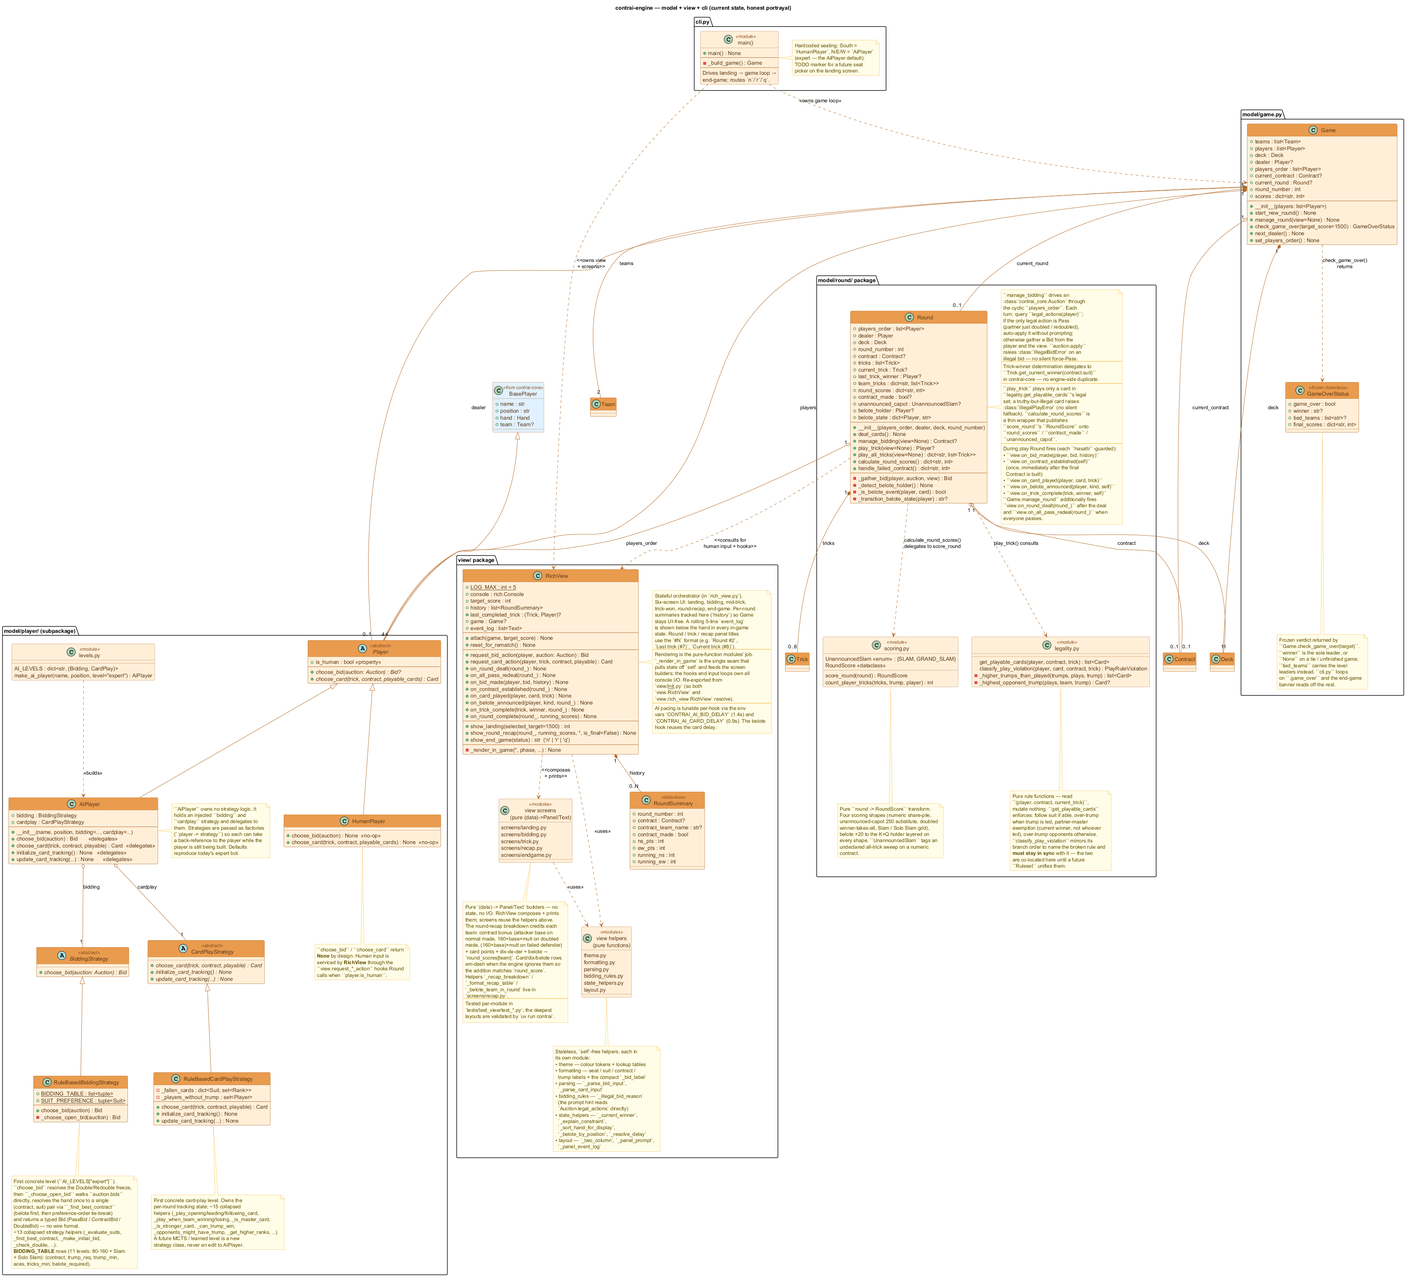
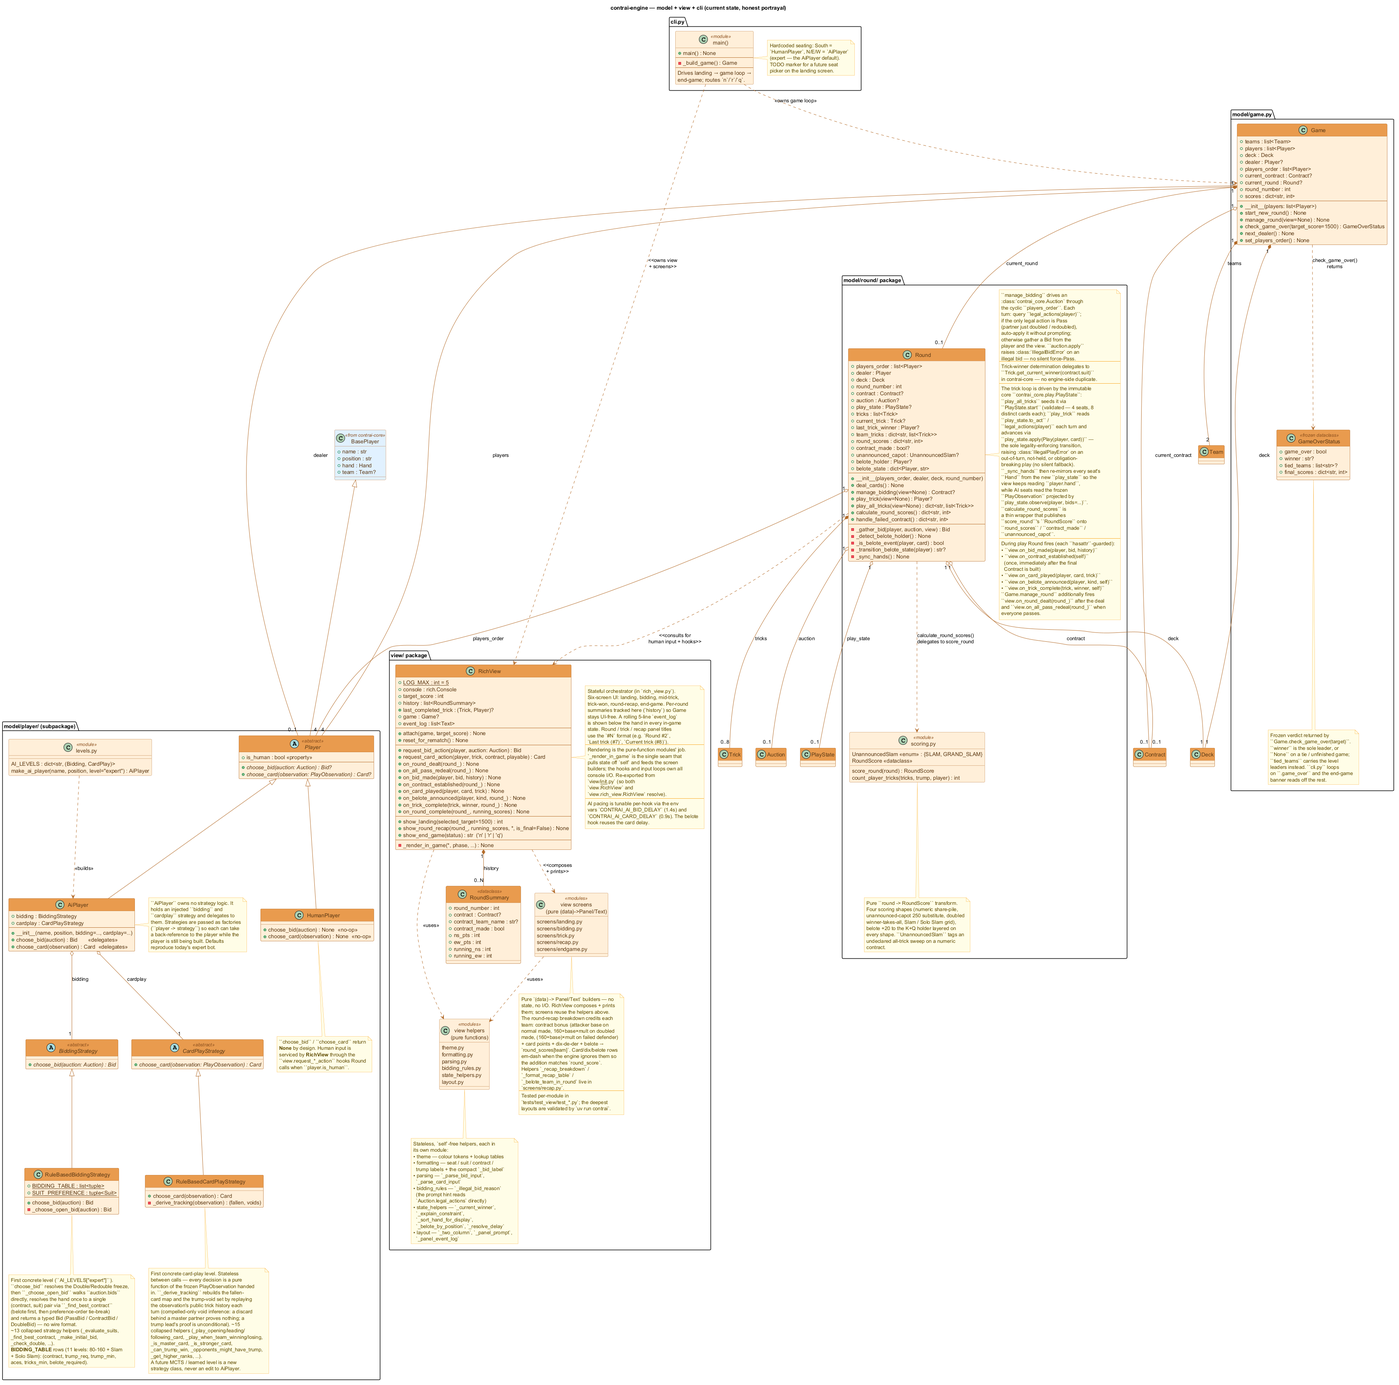
docs(engine): update the trick-flow docs for the PlayState loop

diff --git a/docs/engine/index.md b/docs/engine/index.md
@@ -14,10 +14,9 @@ Source at `packages/contrai-engine/src/contrai_engine/`:
     - `ai.py` — `AiPlayer`, which injects a bidding and a card-play strategy and delegates to them
     - `levels.py` — the `AI_LEVELS` registry + `make_ai_player()` factory for difficulty selection
   - `game.py` — `Game` (fires `view.on_round_dealt(...)` after the deal and `view.on_all_pass_redeal(...)` when nobody contracts)
-  - `round/` — the round subpackage (the lifecycle orchestrator plus the two near-pure transformations it calls); `round/__init__.py` re-exports `Round` / `UnannouncedSlam` so external imports (`from contrai_engine.model.round import …`) are unchanged:
-    - `round.py` — `Round`, the lifecycle orchestrator: deal → `manage_bidding` → `play_trick` / `play_all_tricks` → the thin `calculate_round_scores` wrapper, plus the inline belote/rebelote helpers. Publishes `view.on_bid_made(...)`, `view.on_contract_established(...)`, `view.on_card_played(...)`, `view.on_trick_complete(...)`, and `view.on_belote_announced(...)` so the view can pace and narrate AI turns. `deal_cards` also resets each AI seat's card tracking at every deal, and `play_trick` fans each landing card out to all AI trackers (both hasattr-gated — human seats have no tracker)
+  - `round/` — the round subpackage (the lifecycle orchestrator plus the pure scoring transformation it calls); `round/__init__.py` re-exports `Round` / `UnannouncedSlam` so external imports (`from contrai_engine.model.round import …`) are unchanged:
+    - `round.py` — `Round`, the lifecycle orchestrator: deal → `manage_bidding` → `play_trick` / `play_all_tricks` → the thin `calculate_round_scores` wrapper, plus the inline belote/rebelote helpers. The trick loop is driven by the immutable core `contrai_core.play.PlayState` — seeded at the start of play by `play_all_tricks` (or lazily by `play_trick` when driven directly) — which owns whose turn it is, the legal cards, and each seat's remaining hand; `Round` re-mirrors it after each play — `_sync_hands` re-extends every `player.hand`, and the same play is mirrored onto `current_trick` via `add_play` — so the view keeps reading the classic engine objects, while AI seats instead read the frozen `PlayObservation` projected from that same state. Publishes `view.on_bid_made(...)`, `view.on_contract_established(...)`, `view.on_card_played(...)`, `view.on_trick_complete(...)`, and `view.on_belote_announced(...)` so the view can pace and narrate AI turns
     - `scoring.py` — the pure `score_round(round) -> RoundScore` transformation (the numeric / unannounced-capot / doubled / Slam scoring shapes, belote +20), plus `count_player_tricks` and the `UnannouncedSlam` outcome tag
-    - `legality.py` — the pure card-legality oracle `get_playable_cards(player, contract, current_trick)` and its companion `classify_play_violation(...)`, co-located because their branch orders must stay in sync (this realises the *co-location* half of the deferred `Ruleset`)
 - `view/` — the terminal UI, split into focused modules (see [CLI](#cli) below):
   - `rich_view.py` — `RichView`, the stateful orchestrator: console + per-game state, the engine hooks (`request_*_action`, `on_*`, `show_*`), the input loops, and `_render_in_game` (the single seam that pulls state off `self` and feeds the pure builders). `RoundSummary` lives here too. Re-exported from `view/__init__.py`, so both `from contrai_engine.view.rich_view import RichView` (used by `cli.py` / `model/game.py`) and `from contrai_engine.view import RichView` work.
   - `theme.py` — design tokens (colour palette) and lookup tables (target-score options, position / team labels, bid aliases, valid contract values)
@@ -41,9 +40,9 @@ Everything else (`Card`, `Deck`, `Hand`, `Suit`, `Rank`, `Bid`, `Contract`, `Tri
 
 ## AI players
 
-`AiPlayer` owns no strategic logic of its own. It holds two strategy objects behind the abstract `BiddingStrategy` / `CardPlayStrategy` interfaces (`strategy.py`) and routes `choose_bid` / `choose_card` / the card-tracking hooks to them. Strategies are supplied at construction as **factories** (`player -> strategy`, i.e. the strategy class itself), resolving the chicken-and-egg of a strategy that needs a back-reference to the player while the player is still being built; the `_PlayerStrategy` mix-in then gives each strategy live read access to the player's `hand` / `team` / `position`. The defaults reproduce today's bot, so `AiPlayer("Bot", "South")` is unchanged.
+`AiPlayer` owns no strategic logic of its own. It holds two strategy objects behind the abstract `BiddingStrategy` / `CardPlayStrategy` interfaces (`strategy.py`) and routes `choose_bid` / `choose_card` to them. Strategies are supplied at construction as **factories** (`player -> strategy`, i.e. the strategy class itself), resolving the chicken-and-egg of a strategy that needs a back-reference to the player while the player is still being built; the `_PlayerStrategy` mix-in then gives each strategy live read access to the player's `hand` / `team` / `position`. The defaults reproduce today's bot, so `AiPlayer("Bot", "South")` is unchanged.
 
-The first concrete level is the rule-based pair (`rule_based.py`): `RuleBasedBiddingStrategy` implements the expert bidding table (80–160 plus Slam and Solo Slam) and `RuleBasedCardPlayStrategy` the card-play strategy from the functional specs (`SF-09`, `SF-10`). Future AI levels (MCTS, learned policies — AI roadmap §6) are new strategy classes, never edits to `AiPlayer`; a thin `AI_LEVELS` registry + `make_ai_player(name, position, level="expert")` factory (`levels.py`) gives ergonomic difficulty selection on top, while the raw `AiPlayer(..., bidding=…, cardplay=…)` form stays available for mix-and-match (e.g. rule-based bidding + a learned card-play). The strategy object is also the natural home for a future explainability rule-trace (§6.1). Card tracking is engine-driven: the counters are initialised at construction, reset by `Round.deal_cards` at every deal, and fed by `Round.play_trick` on every landing card — with a compelled-only trump-void inference (a seat discarding behind its master partner is *not* marked void, since that discard is voluntary; on a trump lead the proof is unconditional, because holding trump forces playing it). `choose_card` consumes the real `Contract` object from `Round` rather than the legacy `(player, value, suit)` tuple some older tests once passed.
+The first concrete level is the rule-based pair (`rule_based.py`): `RuleBasedBiddingStrategy` implements the expert bidding table (80–160 plus Slam and Solo Slam) and `RuleBasedCardPlayStrategy` the card-play strategy from the functional specs (`SF-09`, `SF-10`). Future AI levels (MCTS, learned policies — AI roadmap §6) are new strategy classes, never edits to `AiPlayer`; a thin `AI_LEVELS` registry + `make_ai_player(name, position, level="expert")` factory (`levels.py`) gives ergonomic difficulty selection on top, while the raw `AiPlayer(..., bidding=…, cardplay=…)` form stays available for mix-and-match (e.g. rule-based bidding + a learned card-play). The strategy object is also the natural home for a future explainability rule-trace (§6.1). `choose_card` takes a single frozen `contrai_core.PlayObservation` — the seat's own hand, the public trick history, the contract/auction, and its legal cards right now — projected by `PlayState.observe()`. Because that observation is the *only* input a card-play strategy ever receives, a strategy can never read another seat's hand — the cheat-proofing is structural, not a rule the strategy has to honour. `RuleBasedCardPlayStrategy` is stateless between calls: it derives whatever card tracking it needs (which cards have fallen, which seats are known void in trump) by replaying the observation's public trick history fresh on every turn (`_derive_tracking`), rather than carrying counters across calls or rounds. The trump-void inference stays compelled-only — a seat discarding behind its master partner is *not* marked void, since that discard is voluntary; on a trump lead the proof is unconditional, because holding trump forces playing it.
 
 When the AI's team is currently winning the trick (`_play_when_team_winning`) and the AI cannot follow the led suit, the rule is *don't waste trumps*: prefer a non-trump discard over playing a trump card, even though a trump would add more points to the pile. Within the non-trump discard pool the AI prefers non-master cards (preserving cards that can still win their suit later) and picks the highest-points to maximise this trick's value. Only when the hand has nothing left but trumps does the AI play one — and it picks the lowest trump in that case, so the Jack or 9 of trump aren't dumped onto an already-won trick.
 
@@ -72,7 +71,7 @@ Per-round summaries shown on the end-game scoreboard are tracked **view-side** (
 CONTRAI_AI_BID_DELAY=0.5  CONTRAI_AI_CARD_DELAY=0.3  uv run contrai
 ```
 
-**Play legality at the play boundary.** `Round.play_trick` plays a card only if it is in the `legality.get_playable_cards` legal set; a truthy-but-illegal card now raises `IllegalPlayError` (carrying the offending card, a `PlayRuleViolation` reason, and the legal alternatives) instead of being **silently corrected** to a legal fallback. The reason is computed by `legality.classify_play_violation`, which mirrors `get_playable_cards`'s branch order and must stay in sync with it until the deferred `Ruleset` unifies the two — co-locating the pair in `model/round/legality.py` is the first step toward that unification. Both `AiPlayer.choose_card` and `RichView.request_card_action` are contracted to only ever return a card from `playable_cards`, so the raise is a safety net surfacing wiring bugs (cf. the `AiPlayer` cleanup in the open work) rather than a path hit in normal play — the headless 4-AI smoke run confirms it never fires.
+**Play legality at the play boundary.** Card-play legality now lives entirely in `contrai_core.play.PlayState`: `Round.play_trick` reads the active player and their legal cards off `play_state.to_act` / `play_state.legal_actions(player)`, then advances the state with `play_state.apply(Play(player, card))`. `apply` is the single legality-enforcing transition — it checks turn order, then hand membership, then the follow/trump obligations — and raises `IllegalPlayError` (carrying the offending card, a `PlayRuleViolation` reason, and the legal alternatives) on an out-of-turn, not-held, or obligation-breaking play, instead of being **silently corrected** to a legal fallback. Both `AiPlayer.choose_card` (fed the `PlayObservation` projected from that same state) and `RichView.request_card_action` are contracted to only ever return a card from the legal set, so the raise is a safety net surfacing wiring bugs (cf. the `AiPlayer` cleanup in the open work) rather than a path hit in normal play — the headless 4-AI smoke run confirms it never fires.
 
 **Bid legality at the input boundary.** `request_bid_action` parses raw input for *shape* (`_parse_bid_input`) and then validates it against `Auction.is_legal` before returning. An illegal-but-parseable bid — e.g. doubling your own partner's contract — re-prompts with a specific reason (`_illegal_bid_reason`) instead of escaping to `Auction.apply` and crashing the CLI. The model keeps its strict hard-raise contract; the human-input layer is where unvalidated input is filtered. The bid prompt hint is likewise adaptive, and reads straight off `Auction.legal_actions(player)`: `double` / `redouble` are only advertised when a `DoubleBid` / `RedoubleBid` is in the seat's legal set, and the worked contract example is the cheapest legal `ContractBid` value on offer (`100 H` once a `90` stands, not the bare `80` floor) — dropped past `180` where only Slam (a non-integer value) outranks the standing contract.
 
@@ -97,7 +96,7 @@ See the [Rich TUI design handoff](../../ContrAI%20CLI/design_handoff_contrai_tui
 ```plantuml format="svg" source="seq_round.puml"
 ```
 
-The end-to-end flow of `Game.manage_round`: setup (deal, AI card-tracking reset, dealer rotation, players_order, `view.on_round_dealt` notification) → bidding (delegated to `Round.manage_bidding`, which establishes the contract and snapshots the belote holder if any) → eight tricks (`Round.play_all_tricks`) → scoring (`calculate_round_scores`, with belote +20 and dix-de-der +10, applying the double / redouble multiplier). The failed-contract branch (everyone passed) records zero scores, redistributes cards, and fires `view.on_all_pass_redeal`. `manage_round` returns nothing — it mutates the `Game`/`Round` in place (`current_contract`, `scores`) and the caller reads the outcome off those. After each `manage_round`, `cli.py` calls `view.on_round_complete` and then `view.show_round_recap(round_, scores, is_final=…)` — shown for every round, including the one that just clinched the game (the prompt flips to "see the final score…" so the end-game banner is what follows).
+The end-to-end flow of `Game.manage_round`: setup (deal, dealer rotation, players_order, `view.on_round_dealt` notification) → bidding (delegated to `Round.manage_bidding`, which establishes the contract and snapshots the belote holder if any) → eight tricks (`Round.play_all_tricks`) → scoring (`calculate_round_scores`, with belote +20 and dix-de-der +10, applying the double / redouble multiplier). The failed-contract branch (everyone passed) records zero scores, redistributes cards, and fires `view.on_all_pass_redeal`. `manage_round` returns nothing — it mutates the `Game`/`Round` in place (`current_contract`, `scores`) and the caller reads the outcome off those. After each `manage_round`, `cli.py` calls `view.on_round_complete` and then `view.show_round_recap(round_, scores, is_final=…)` — shown for every round, including the one that just clinched the game (the prompt flips to "see the final score…" so the end-game banner is what follows).
 
 The two zoom diagrams below break out the dense parts.
 
@@ -113,7 +112,7 @@ The two zoom diagrams below break out the dense parts.
     ```plantuml format="svg" source="seq_trick.puml"
     ```
 
-    Leader determination → four players play in order → winner + bookkeeping → each landing card fans out to every AI seat's `update_card_tracking` (before the view hook, with the `partner_was_master` flag snapshotted pre-play so voluntary discards behind a master partner aren't marked as trump voids) → `view.on_card_played(player, card, trick)` after each landing card → optional `view.on_belote_announced(player, kind, round_)` when the trump K-or-Q is played by the holder → `view.on_trick_complete(trick, winner, round_)` callback (each hook is gated on `hasattr(view, …)`, so non-Rich callers stay unaffected). Two subtleties to know: `Trick()` is built bare (it stores no trump), so `Round.play_trick` passes `self.contract.suit` into `Trick.get_current_winner(trump_suit)` to pick the winner — there is no engine-side duplicate of that rule; and a truthy-but-illegal `choose_card` result raises `IllegalPlayError` (carrying the offending card, a `classify_play_violation` reason, and the legal alternatives) rather than being silently corrected — consistent with the play-legality boundary described above. Legality (`legality.get_playable_cards`) now correctly forces over-trump when trump is led and keys the partner exemption on the *current master* of the partial trick — see the legality note at the foot of the diagram.
+    Leader determination is implicit in `play_state.to_act` (trick 0 is led by `players_order[0]`; every later trick by the previous winner). For each of the four plays: `play_state.to_act` / `play_state.legal_actions(player)` supply the active player and legal cards → the human seat is asked via `view.request_card_action`, an AI seat via `choose_card(play_state.observe(player, bids=...))` (the frozen `PlayObservation` is the only thing the strategy ever sees), any other seat falls back to the first legal card → `play_state = play_state.apply(Play(player, card))` advances the authoritative state (raising `IllegalPlayError` on an out-of-turn, not-held, or obligation-breaking card — no silent correction) → `_sync_hands` re-mirrors every seat's `Hand` from the new state → the same play is mirrored onto `current_trick` via `add_play` → `view.on_card_played(player, card, trick)` → optional `view.on_belote_announced(player, kind, round_)` when the trump K-or-Q is played by the holder. Once all four plays land: `view.on_trick_complete(trick, winner, round_)` callback (each hook is gated on `hasattr(view, …)`, so non-Rich callers stay unaffected). Two subtleties to know: `Trick()` is built bare (it stores no trump), so `Round.play_trick` passes `self.contract.suit` into `Trick.get_current_winner(trump_suit)` to pick the winner — there is no engine-side duplicate of that rule; and `PlayState.legal_actions` (contrai-core) correctly forces over-trump when trump is led and keys the partner exemption on the *current master* of the partial trick — see the legality note at the foot of the diagram.
 
 ### Scoring
 
@@ -124,7 +123,7 @@ The two zoom diagrams below break out the dense parts.
 
 ## Open work
 
-- The round test suite mirrors the `model/round/` split into three files (sharing the `players` fixture in `tests/test_model/conftest.py`): `test_round_legality.py` covers the `legality.get_playable_cards` oracle and the `legality.classify_play_violation` reason classifier; `test_round_scoring.py` covers the `scoring.score_round` grid (numeric / unannounced-capot / doubled / Slam) plus a direct `RoundScore`/`score_round` purity check; and `test_round.py` keeps the orchestrator concerns — `play_trick`'s `IllegalPlayError` raise on an illegal card, the card-tracking wiring (the `play_trick` fan-out with the compelled-vs-voluntary void inference, and the `deal_cards` per-deal reset), the belote tracking helpers, and the auction-driven integration test that the human seat is never prompted when their partner has doubled. The lifecycle path (`manage_bidding` end-to-end / `play_all_tricks` / `calculate_round_scores`) is still un-tested past that single integration scenario — backfill needed.
+- The round test suite mirrors the `model/round/` split (sharing the `players` fixture in `tests/test_model/conftest.py`): `test_round_scoring.py` covers the `scoring.score_round` grid (numeric / unannounced-capot / doubled / Slam) plus a direct `RoundScore`/`score_round` purity check; `test_round.py` keeps the orchestrator concerns — `play_trick`'s `IllegalPlayError` raise on an illegal card (`TestPlayTrickRejectsIllegalCard`), the lazy `PlayState` seeding guard and the validated `play_all_tricks` seeding (`TestPlayStateSeeding`), `_sync_hands` mirroring and card-identity flow-through (`TestSyncHandsMirrorsPlayState`, `TestCardIdentityFlowsFromSeed`), the retained auction (`TestAuctionRetention`), the `PlayObservation` each AI seat is handed (`TestPlayTrickHandsObservation`), the belote tracking helpers, and the auction-driven integration test that the human seat is never prompted when their partner has doubled (`TestManageBiddingAutoPasses`); and `test_round_lifecycle.py` backfills the full end-to-end path — `deal_cards` → `manage_bidding` → `play_all_tricks` → `calculate_round_scores` — on a fully stacked deck with four `AiPlayer` seats and no view, pinning both a scoring invariant and a concrete regression split.
 - The screen `Panel`/`Table` *builders* (now pure functions under `view/screens/` and `view/layout.py`, no longer `RichView` methods) are lightly covered: title/text smoke tests for the round panel, bidding-history, event-log, recap tables, and the diamond's belote badge, in the matching `test_view/test_*.py` files. Layouts that aren't asserted on are still validated by `uv run contrai` smoke-running.
 - Sweep the rule-based strategy private helpers for any remaining `contract[…]` indexing residues — the four visible call sites were fixed during CLI work but a defensive pass through `rule_based.py` would not hurt.
 - The rule-based strategy now reads the `Auction` directly: `choose_bid` / `_choose_open_bid` walk `auction.bids`, resolve the Double/Redouble freeze through `auction.has_double` / `has_redouble`, and the expert helpers (`_get_partner_bid`, `_check_double`) consume and return typed `Bid` objects. The open-bid path evaluates the hand once and resolves it to a single `(contract, suit)` pair via `_find_best_contract` — max-contract search and suit tie-break (belote first, then the Spades → Clubs preference order, picking among *qualifying* suits only) folded into one step. Partner support is anchored to the team's *opening* bid in the suit: the supporting seat announces its complement (+10 per external ace, +10 for the trump complement) exactly once, capped at `opening + complement`, and a seat never supports a suit it opened itself — previously each supporting turn re-added the full complement on top of the standing contract, so partners alternately ratcheted each other up (80 → 110 → 130 → 160 …) until the inflated value armed the opponents' double heuristic. The `RedoubleBid` decision lives on the frozen-auction path (`_choose_under_double`), gated on a `_should_redouble` stub that returns `False` today — a real Surcoinche heuristic is the open follow-up here.

diff --git a/docs/ai-ladder/rule_based.md b/docs/ai-ladder/rule_based.md
@@ -2,6 +2,8 @@
 
 Hand-coded expert strategies (expert bidding table + card-play heuristics; specs SF-09, SF-10). They are the **first concrete rung** of the AI ladder, implemented in `contrai-engine` as the `RuleBasedBiddingStrategy` / `RuleBasedCardPlayStrategy` pair — concrete implementations of the `BiddingStrategy` / `CardPlayStrategy` interfaces. They are injected into `AiPlayer` (the default strategies) and registered as `AI_LEVELS["expert"]`, so a future MCTS or learned level is a new strategy class rather than an edit to `AiPlayer`. See the [engine docs](../engine/index.md#ai-players) for the injection seam.
 
+`RuleBasedCardPlayStrategy` is stateless between calls: every decision is a pure function of the single frozen `PlayObservation` it is handed for that turn. Whatever card tracking the heuristics need — which cards have fallen, which seats are known void in trump — is derived fresh each turn by replaying the observation's public trick history, never carried across calls or rounds. Because the observation is the only input a strategy ever receives, it can never see another seat's hand.
+
 **Explainability:** the rule trace is the rationale — log which rule fired for each bid/play. The strategy object is the natural home for that trace (AI roadmap §6.1).
 
 > TODO: rule catalogue; planned extensions (deeper card counting, partner inference, signal-based bidding).
